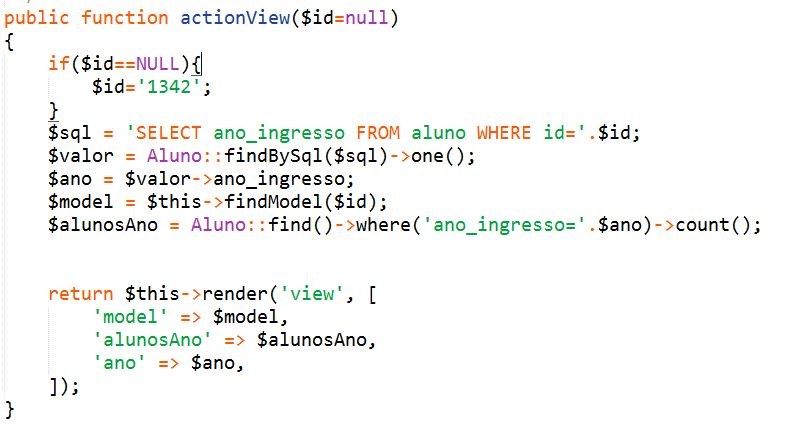
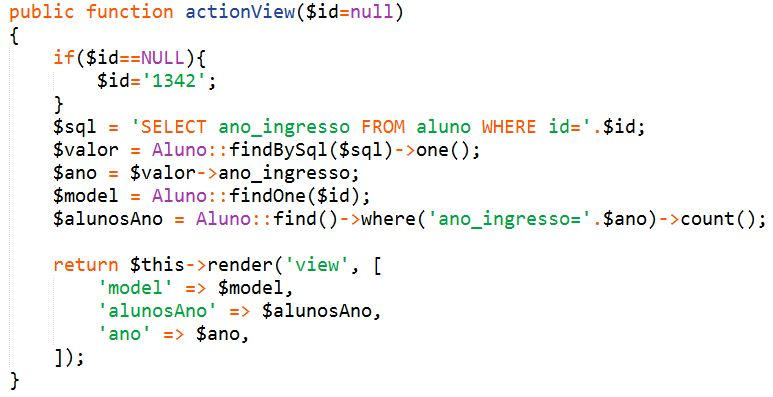
Atualização

diff --git a/trabalho_final/basic/controllers/AlunoController.php b/trabalho_final/basic/controllers/AlunoController.php
@@ -59,7 +59,7 @@ class AlunoController extends Controller
         $sql = 'SELECT ano_ingresso FROM aluno WHERE id='.$id;
         $valor = Aluno::findBySql($sql)->one();
         $ano = $valor->ano_ingresso;
-        $model = $this->findModel($id);
+        $model = Aluno::findOne($id);
         $alunosAno = Aluno::find()->where('ano_ingresso='.$ano)->count();
 
         return $this->render('view', [
